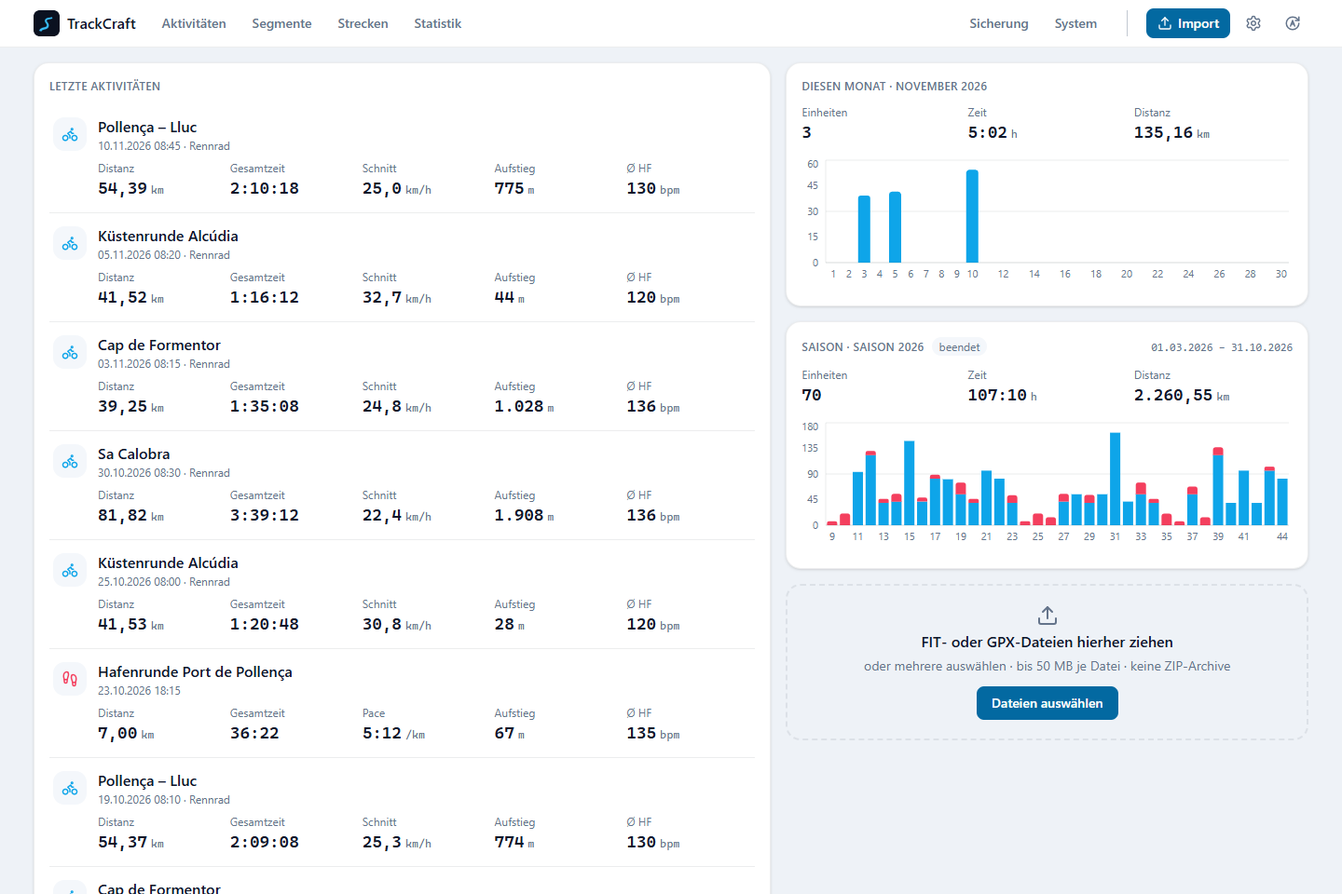
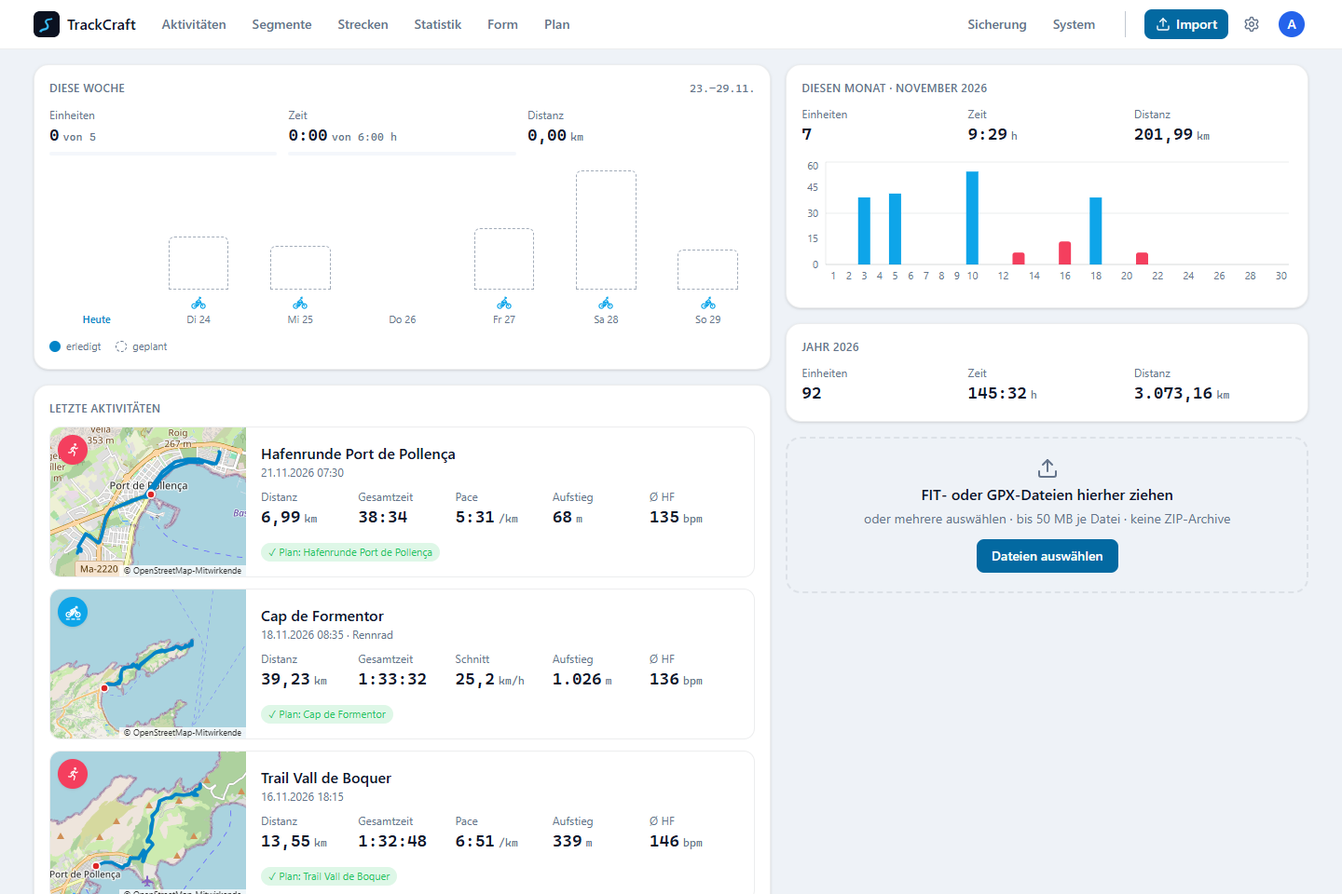
README, Anleitungen und Screenshots fürs öffentliche Repo
- README: Belastung/Form, Planung und neues Dashboard beschrieben, Version 0.8,
  Voraussetzungen je Plattform, Abschnitt Fragen/Fehler/Beiträge, offene Issues
  statt Versprechen
- CONTRIBUTING.md: Issues willkommen, Code-Beiträge nach Absprache
- Anleitungen: Hinweis, dass die tägliche Sicherung noch fehlt, mit Weg zum
  Selbstsichern; Rollback über die Migrationssicherung statt nicht vorhandener
  Seite Sicherung; Docker ohne GHCR-Anmeldung, mit Rechten für UID 10001,
  Beispiel-Reverse-Proxy, Rollback und Deinstallation; NAS-Beispielname neutral
- Demo: seed_demo.py legt Profil, HF-Zonen, Ziel und Plan an; Screenshots
  neu, dazu Form und Plan

Refs #40

diff --git a/scripts/demo/seed_demo.py b/scripts/demo/seed_demo.py
@@ -1,6 +1,7 @@
 """Eine leere TrackCraft-Instanz mit den Beispieldaten aus make_demo.py befüllen.
 
-Importiert alle GPX-Dateien, legt zwei Saisons, Segmente und Strecken an und wartet, bis die Auswertung fertig ist.
+Importiert alle GPX-Dateien, legt zwei Saisons, Segmente und Strecken, Profil mit HF-Zonen, ein Ziel und einen Plan an
+und wartet, bis die Auswertung fertig ist.
 Nur für eine Test-Instanz gedacht (selbst signiertes Zertifikat wird nicht geprüft).
 
 Aufruf:  python scripts/demo/seed_demo.py <gpx-ordner> [https://localhost:8443]
@@ -13,6 +14,7 @@ import time
 import urllib.error
 import urllib.request
 import uuid
+from datetime import date, timedelta
 from pathlib import Path
 
 BASE = sys.argv[2] if len(sys.argv) > 2 else "https://localhost:8443"
@@ -103,9 +105,11 @@ def main():
     if len(sys.argv) < 2:
         sys.exit(__doc__)
     files = sorted(Path(sys.argv[1]).glob("*.gpx"))
-    ids = {}
+    ids, days = {}, {}
     for f in files:
-        ids.setdefault(f.stem.split("-", 3)[3], []).append(upload(f))
+        aid = upload(f)
+        ids.setdefault(f.stem.split("-", 3)[3], []).append(aid)
+        days[f.stem[:10]] = aid
         print("importiert", f.name)
     wait_jobs()
 
@@ -129,7 +133,43 @@ def main():
     sec = track(first["formentor"])
     create(first["formentor"], (sec["index"][0], sec["index"][-1]), "Cap de Formentor", "cycling", kind="route", location="Port de Pollença")
     wait_jobs()
+    seed_form_and_plan(days)
+    wait_jobs()
     print("fertig:", sum(len(v) for v in ids.values()), "Aktivitäten")
+
+
+def seed_form_and_plan(days):
+    """Profil und HF-Zonen (für Belastung und Form), ein Ziel und ein Plan mit erledigten und offenen Einheiten."""
+    s, _ = call("PATCH", "/profile", {"nickname": "Alex", "birthday": "1984-06-12"})
+    print("Profil", s)
+    s, v = call("POST", "/hr-zones", {"sport_class": None, "valid_from": "2025-01-01", "max_hr": 182, "resting_hr": 52})
+    print("HF-Zonen", s, "" if s == 201 else v)
+
+    today = date.today()
+    s, v = call("POST", "/plan/goals", {
+        "date": (today + timedelta(days=48)).isoformat(), "sport_class": "cycling", "name": "Tramuntana-Runde",
+        "description": "Erfundenes Beispielziel: einmal quer durchs Gebirge.", "distance_m": 160000, "target_time_s": 6 * 3600 + 30 * 60})
+    print("Ziel", s, "" if s == 201 else v)
+    goal = v["data"]["id"]
+
+    # Erledigte Einheiten der letzten zehn Tage, je mit der Aktivität des Tages verknüpft
+    for day, aid in sorted(days.items()):
+        if (today - date.fromisoformat(day)).days > 10:
+            continue
+        a = call("GET", f"/activities/{aid}")[1]["data"]
+        minutes = max(a["total_time_ms"] // 60000, 1)
+        s, u = call("POST", "/plan/units", {"date": day, "sport_class": a["sport_class"], "title": a["title"],
+                                            "mode": "target", "duration_min": minutes, "target_load": round(minutes * 0.9),
+                                            "intensive_pct": 20})
+        if s == 201:
+            call("PUT", f"/plan/units/{u['data']['id']}/activity", {"activity_id": a["id"]})
+        print("Einheit erledigt", day, s)
+
+    # Offene Einheiten bis zum Ziel über die Planungshilfe
+    body = {"goal_id": goal, "sport_class": "cycling", "minutes": [0, 75, 60, 0, 90, 180, 60], "max_gain": 5,
+            "recovery_weeks": True, "intensity": "polarized"}
+    s, v = call("POST", "/plan/suggestion/apply", body)
+    print("Planungshilfe", s, v["data"] if s == 201 else v)
 
 
 if __name__ == "__main__":

diff --git a/scripts/demo/make_demo.py b/scripts/demo/make_demo.py
@@ -40,7 +40,7 @@ KINDS = {
 
 # Wer auf Mallorca wohnt: das ganze Jahr alle paar Tage, im Sommer weniger Radfahren (Hitze), mehr Laufen
 FIRST_DAY = date(2025, 3, 1)
-LAST_DAY = date(2026, 11, 12)
+LAST_DAY = date(2026, 11, 22)
 RIDES = ["formentor", "lluc", "alcudia", "sa_calobra", "formentor", "alcudia", "lluc"]
 RUNS = ["hafenrunde", "hafenrunde", "boquer"]
 

diff --git a/README.md b/README.md
@@ -2,9 +2,9 @@
 
 # TrackCraft
 
-**Deine Trainingsdaten auf deinem eigenen Rechner.** TrackCraft ist eine selbst gehostete Trainingsplattform für FIT- und GPX-Dateien: Aktivitäten importieren, auf der Karte ansehen, eigene Segmente und Strecken anlegen und die eigenen Bestzeiten über Jahre und Saisons verfolgen. Ohne Cloud, ohne Konto, im eigenen Heimnetz.
+**Deine Trainingsdaten auf deinem eigenen Rechner.** TrackCraft ist eine selbst gehostete Trainingsplattform für FIT- und GPX-Dateien: Aktivitäten importieren, auf der Karte ansehen, eigene Segmente und Strecken anlegen, Bestzeiten über Jahre und Saisons verfolgen, Belastung und Form beobachten und das Training bis zum nächsten Ziel planen. Ohne Cloud, ohne Konto, im eigenen Heimnetz.
 
-Stand: Version 0.6 (Vorabversion auf dem Weg zu v1.0). Oberfläche und Dokumentation sind auf Deutsch.
+Stand: Version 0.8 (Vorabversion auf dem Weg zu v1.0). Oberfläche und Dokumentation sind auf Deutsch. TrackCraft ist für **eine Person** im eigenen Heimnetz gedacht und hat **kein Login** (siehe [Sicherheit](#sicherheit-nur-fürs-heimnetz)).
 
 <picture>
   <source media="(prefers-color-scheme: dark)" srcset="docs/screenshots/aktivitaet-dunkel.png">
@@ -15,7 +15,9 @@ Stand: Version 0.6 (Vorabversion auf dem Weg zu v1.0). Oberfläche und Dokumenta
 | :---: | :---: |
 | <picture><source media="(prefers-color-scheme: dark)" srcset="docs/screenshots/segment-dunkel.png"><img src="docs/screenshots/segment-hell.png" alt="Segment Sa Calobra mit Karte, Höhenprofil und Bestzeiten"></picture> | <picture><source media="(prefers-color-scheme: dark)" srcset="docs/screenshots/statistik-dunkel.png"><img src="docs/screenshots/statistik-hell.png" alt="Statistik mit Saisons, Monatsdistanz und Verteilung je Sportklasse"></picture> |
 | **Dashboard** | **Aktivitätenliste** |
-| <picture><source media="(prefers-color-scheme: dark)" srcset="docs/screenshots/dashboard-dunkel.png"><img src="docs/screenshots/dashboard-hell.png" alt="Dashboard mit letzten Aktivitäten, Monat und Saison"></picture> | <picture><source media="(prefers-color-scheme: dark)" srcset="docs/screenshots/aktivitaeten-dunkel.png"><img src="docs/screenshots/aktivitaeten-hell.png" alt="Aktivitätenliste mit Filtern und Summen"></picture> |
+| <picture><source media="(prefers-color-scheme: dark)" srcset="docs/screenshots/dashboard-dunkel.png"><img src="docs/screenshots/dashboard-hell.png" alt="Dashboard mit letzten Aktivitäten, Woche, Monat und Jahr"></picture> | <picture><source media="(prefers-color-scheme: dark)" srcset="docs/screenshots/aktivitaeten-dunkel.png"><img src="docs/screenshots/aktivitaeten-hell.png" alt="Aktivitätenliste mit Filtern und Summen"></picture> |
+| **Form** | **Plan** |
+| <picture><source media="(prefers-color-scheme: dark)" srcset="docs/screenshots/form-dunkel.png"><img src="docs/screenshots/form-hell.png" alt="Formkurve mit Fitness, Ermüdung und Form samt Vorschau"></picture> | <picture><source media="(prefers-color-scheme: dark)" srcset="docs/screenshots/plan-dunkel.png"><img src="docs/screenshots/plan-hell.png" alt="Trainingsplan im Kalender mit erledigten und geplanten Einheiten und einem Ziel"></picture> |
 
 Alle Bilder zeigen erfundene Beispieldaten auf Mallorca ([scripts/demo](scripts/demo/README.md)); eine Tablet-Ansicht liegt unter [docs/screenshots](docs/screenshots).
 
@@ -41,9 +43,19 @@ Alle Bilder zeigen erfundene Beispieldaten auf Mallorca ([scripts/demo](scripts/
 - Erkennt Rundkurse und warnt, wenn eine neue Strecke einer vorhandenen gleicht.
 
 **Auswertung**
-- Dashboard mit den letzten Aktivitäten, Tagesbalken und laufender Saison.
+- Dashboard mit den letzten Aktivitäten samt Kartenvorschau, der laufenden Woche (erledigt gegen geplant), Monat und Jahr.
 - Statistikseite mit Summen und Verteilung je Sportklasse über frei wählbare Zeiträume.
-- **Saisons:** frei benannte Zeiträume (z. B. „Sommer 2026“), in der Oberfläche gepflegt, wirken auf Bestenlisten, Filter und Dashboard.
+- **Saisons:** frei benannte Zeiträume (z. B. „Sommer 2026“), in der Oberfläche gepflegt, wirken auf Bestenlisten, Filter und Statistik.
+
+**Belastung und Form**
+- Herzfrequenzzonen im Konto, allgemein oder je Sportklasse und mit Gültigkeitsdatum; die maximale HF wird aus dem Geburtstag vorgeschlagen.
+- Belastung je Aktivität aus der Herzfrequenz (TRIMP nach Banister) und Zeit in den Zonen; ohne Pulsdaten geschätzt und so gekennzeichnet.
+- Seite **Form** mit Fitness, Ermüdung und Form über die Zeit und einer Vorschau (Ruhe, gleichbleibend oder nach Plan); Modell wählbar, jede Einstellung mit Erklärung.
+
+**Planung**
+- Kalender mit geplanten Einheiten (Zielbelastung oder Minuten je Zone), Serien, Vorlagen und Verschieben per Drag-and-drop.
+- Ziele wie Wettkämpfe oder Touren im Kalender; die **Planungshilfe** schlägt die Einheiten bis zum Ziel vor (Minuten je Wochentag, Steigerung, Entlastungswochen).
+- Eine Aktivität lässt sich der geplanten Einheit des Tages zuordnen (TrackCraft schlägt sie vor); die Formvorschau rechnet den offenen Plan mit ein.
 
 **Betrieb**
 - Läuft als Windows-Dienst, als Linux-systemd-Dienst (z. B. in einem Proxmox-Container) oder mit Docker.
@@ -51,7 +63,7 @@ Alle Bilder zeigen erfundene Beispieldaten auf Mallorca ([scripts/demo](scripts/
 - Bedienbar am PC, Tablet und Handy, helles und dunkles Design.
 - Eine Datenbank (SQLite) und die unveränderten Originaldateien; jede Kennzahl lässt sich aus den Originalen neu berechnen.
 
-**Noch nicht enthalten** (geplant bis v1.0): Sicherung und Wiederherstellung aus der Oberfläche, Export, Ausrüstung und Wartung. Später denkbar: Gesundheitsdaten, Raspberry Pi, MCP-Server.
+**Noch nicht enthalten** (geplant bis v1.0): tägliche Sicherung und Wiederherstellung aus der Oberfläche, Export. Später denkbar und als [Issues](../../issues) beschrieben: Ausrüstung und Wartung, Leistungsdaten (Watt), Laufprognosen, Gesundheitsdaten, mehrere Benutzer mit Anmeldung, weitere Sprachen, Raspberry Pi, MCP-Server.
 
 ## Sicherheit: nur fürs Heimnetz
 
@@ -61,13 +73,13 @@ TrackCraft hat in V1 **kein Login**. Wer die Oberfläche erreicht, darf alles le
 
 Fertige Pakete gibt es unter [Releases](../../releases), jeweils mit `SHA256SUMS.txt`.
 
-| Plattform | Paket | Anleitung |
-| :--- | :--- | :--- |
-| Windows 11 (x86-64) | `trackcraft-<version>-windows-x86_64.zip`, Start über `setup.cmd` | [infrastructure/windows/BETRIEB.md](infrastructure/windows/BETRIEB.md) |
-| Linux mit systemd (x86-64, glibc ≥ 2.35) | `trackcraft-<version>-linux-x86_64.tar.gz`, Start über `setup.sh` | [infrastructure/linux/BETRIEB.md](infrastructure/linux/BETRIEB.md) |
-| Docker | Images `trackcraft-backend` und `trackcraft-frontend` (GHCR), `compose.yaml` | [infrastructure/docker/BETRIEB.md](infrastructure/docker/BETRIEB.md) |
+| Plattform | Voraussetzungen | Paket | Anleitung |
+| :--- | :--- | :--- | :--- |
+| Windows | Windows 11, x86-64, 2 GB freier Arbeitsspeicher | `trackcraft-<version>-windows-x86_64.zip`, Start über `setup.cmd` | [infrastructure/windows/BETRIEB.md](infrastructure/windows/BETRIEB.md) |
+| Linux | x86-64 mit systemd und glibc ≥ 2.35 (z. B. Debian 12/13, Ubuntu 22.04 und neuer), 1 GB freier Arbeitsspeicher | `trackcraft-<version>-linux-x86_64.tar.gz`, Start über `setup.sh` | [infrastructure/linux/BETRIEB.md](infrastructure/linux/BETRIEB.md) |
+| Docker | x86-64-Host mit Docker Engine und Compose v2, davor ein Reverse Proxy für HTTPS | `trackcraft-<version>-docker.zip` mit `compose.yaml`; Images `ghcr.io/ulilaun/trackcraft-backend` und `-frontend`, ohne Anmeldung ladbar | [infrastructure/docker/BETRIEB.md](infrastructure/docker/BETRIEB.md) |
 
-Das Setup fragt nach dem Namen des Rechners im Heimnetz (z. B. `trackcraft.home.arpa`), legt Zertifikate und Konfiguration an und startet den Dienst. Ein Update ist dasselbe Setup aus dem neueren Paket; die Datenbank wird dabei automatisch migriert.
+Unter Windows und Linux fragt das Setup nach dem Namen des Rechners im Heimnetz (z. B. `trackcraft.home.arpa`), legt Zertifikate und Konfiguration an und startet den Dienst. Ein Update ist dasselbe Setup aus dem neueren Paket; die Datenbank wird dabei automatisch migriert. Im Browser genügt eine aktuelle Version von Firefox, Chrome, Edge oder Safari.
 
 **Kartenkacheln:** Ohne eigene Einstellung lädt der Browser die Karten direkt von den Servern der OpenStreetMap Foundation (`tile.openstreetmap.org`). Das ist für gelegentliche private Nutzung gedacht und unterliegt deren [Nutzungsrichtlinie](https://operations.osmfoundation.org/policies/tiles/), die Namensnennung blendet TrackCraft ein. Wer viel lädt oder TrackCraft für mehrere Personen betreibt, trägt in der Konfiguration einen eigenen Kachelanbieter ein:
 
@@ -78,6 +90,10 @@ attribution = "© OpenStreetMap-Mitwirkende, Kacheln: Beispielanbieter"
 ```
 
 **Ortsvorschlag:** Findet TrackCraft keinen bekannten Ort in der Nähe des Starts, fragt der Server den Dienst Nominatim von OpenStreetMap (`nominatim.openstreetmap.org`) mit der auf gut 10 m gerundeten Startkoordinate. Das lässt sich unter Einstellungen → Orte abschalten; mit `[places] nominatim_url` geht auch eine eigene Nominatim-Instanz.
+
+## Fragen, Fehler und Beiträge
+
+TrackCraft ist ein Freizeitprojekt mit einem Betreuer. Fragen, Fehler und Ideen bitte als [Issue](../../issues) melden, gern mit Version (Seite System) und Plattform; Sicherheitslücken vertraulich wie in [SECURITY.md](SECURITY.md). Code-Beiträge bitte erst im Issue absprechen, Einzelheiten in [CONTRIBUTING.md](CONTRIBUTING.md).
 
 ## Entwicklung
 

diff --git a/infrastructure/docker/BETRIEB.md b/infrastructure/docker/BETRIEB.md
@@ -1,35 +1,91 @@
 # TrackCraft mit Docker betreiben
 
-Zweite Plattform nach RFC-0005: x86-64-Host mit Docker und Docker Compose v2, z. B. Synology mit Container Manager oder Mini-PC mit Linux. In CI gebaut und getestet, nicht auf eigener Hardware abgenommen.
+Zweite Plattform nach RFC-0005: x86-64-Host mit Docker Engine und Docker Compose v2, z. B. ein Mini-PC mit Linux oder eine Synology mit Container Manager. Anders als unter Windows und Linux macht TrackCraft im Container **kein eigenes HTTPS**: Davor gehört ein Reverse Proxy, der HTTPS für den Namen im Heimnetz anbietet (Abschnitt „Reverse Proxy“).
+
+Zwei Container: `trackcraft-backend` (Programm, Daten) und `trackcraft-frontend` (Nginx mit der Oberfläche, leitet `/api` ans Backend). Die Images liegen öffentlich unter `ghcr.io/ulilaun/trackcraft-backend` und `ghcr.io/ulilaun/trackcraft-frontend`; eine Anmeldung bei GitHub ist nicht nötig.
 
 ## Einrichten
 
-1. `trackcraft-<version>-docker.zip` aus dem GitHub Release laden, Prüfsumme mit `SHA256SUMS.txt` vergleichen, in einen Ordner auf dem Host entpacken.
-2. Einmal an der privaten Registry anmelden, mit einem Token, das nur `read:packages` darf:
+1. `trackcraft-<version>-docker.zip` und `SHA256SUMS.txt` aus dem GitHub Release laden, Prüfsumme vergleichen und auf dem Host entpacken:
 
    ```bash
-   docker login ghcr.io -u <github-name>
+   sha256sum -c --ignore-missing SHA256SUMS.txt
+   unzip trackcraft-<version>-docker.zip
+   cd trackcraft-<version>-docker
    ```
 
-3. `config/trackcraft.toml` aus `trackcraft.container.example.toml` anlegen und anpassen (Anzeigename, `allowed_origins`).
-4. In `compose.yaml` den Pfad des Sicherungsziels eintragen.
-5. Starten:
+2. Konfiguration aus der Vorlage anlegen und anpassen, mindestens `display_name` und `allowed_origins` (die Adresse, unter der der Reverse Proxy TrackCraft anbietet, z. B. `https://trackcraft.home.arpa`):
+
+   ```bash
+   cp config/trackcraft.container.example.toml config/trackcraft.toml
+   nano config/trackcraft.toml
+   ```
+
+3. In `compose.yaml` den Pfad des Sicherungsziels eintragen (Zeile `/pfad/zum/sicherungsziel`), z. B. eine eingehängte NAS-Freigabe.
+4. Datenordner anlegen und dem Benutzer im Container (UID 10001) geben; der Backend-Container läuft nicht als root und darf sonst nicht schreiben:
+
+   ```bash
+   mkdir -p data
+   sudo chown -R 10001:10001 data /pfad/zum/sicherungsziel
+   ```
+
+5. Starten und prüfen:
 
    ```bash
    docker compose up -d
+   docker compose ps
+   curl -s http://127.0.0.1:8081/api/v1/health
    ```
+
+   `health` antwortet mit `"status":"ok"`, sobald das Backend läuft.
 
 ## Reverse Proxy
 
-Der Frontend-Container ist nur auf `127.0.0.1:8081` des Hosts erreichbar. Der Reverse Proxy (auf der Synology der von DSM) terminiert HTTPS für den Namen aus `allowed_origins` und leitet an `http://127.0.0.1:8081` weiter. Er reicht `Host`, `Origin` und `Sec-Fetch-*` unverändert weiter und fügt keine CORS-Header hinzu (RFC-0005). Uploads bis 50 MB und eine Stunde Laufzeit müssen durchgehen.
+Der Frontend-Container ist nur auf `127.0.0.1:8081` des Hosts erreichbar (HTTP). Der Reverse Proxy terminiert HTTPS für den Namen aus `allowed_origins` und leitet an `http://127.0.0.1:8081` weiter. Er reicht `Host`, `Origin` und `Sec-Fetch-*` unverändert weiter und fügt keine CORS-Header hinzu (RFC-0005). Uploads bis 50 MB und eine Stunde Laufzeit müssen durchgehen.
+
+Beispiel mit Caddy auf demselben Host, Zertifikat aus Caddys eigener lokaler CA (`tls internal`; deren Stammzertifikat dann auf den Geräten installieren):
+
+```
+trackcraft.home.arpa {
+    tls internal
+    request_body {
+        max_size 50MB
+    }
+    reverse_proxy 127.0.0.1:8081
+}
+```
+
+Auf einer Synology übernimmt das der Reverse Proxy von DSM (Systemsteuerung → Anmeldeportal → Erweitert → Reverse Proxy), mit einem Zertifikat für den Namen.
+
+## Sicherung
+
+> **Noch keine tägliche Sicherung:** TrackCraft legt bisher nur vor einer Schemamigration selbst eine Sicherung der Datenbank an (`data/backups`). Die tägliche Sicherung ins Sicherungsziel und die Wiederherstellung aus der Oberfläche kommen mit einer späteren Version. Bis dahin selbst sichern: `docker compose stop`, die Ordner `data/database` und `data/activities` kopieren, `docker compose start`.
 
 ## Update
 
-1. Version in `compose.yaml` auf die neue genaue Version ändern.
+1. In `compose.yaml` bei beiden Images die neue genaue Version eintragen (nie `latest`).
 2. `docker compose pull` und `docker compose up -d`.
 
-Vor einer Schemamigration legt TrackCraft eine Sicherung in `data/backups` an. Rollback: alte Version eintragen und nach RFC-0015 verfahren; ein älteres Image startet nicht gegen ein neueres Schema.
+Konfiguration und Daten bleiben; vor einer Schemamigration legt TrackCraft eine Sicherung in `data/backups` an. Neue Pflichtschlüssel nennen die Release Notes.
+
+## Rollback
+
+Ein älteres Image startet nicht gegen ein neueres Schema und ändert dann nichts. Alte Version in `compose.yaml` eintragen und `docker compose up -d`. Startet sie nicht, weil schon migriert wurde:
+
+```bash
+docker compose down
+mkdir -p nach-update && mv data/database/trackcraft.db* nach-update/
+cp data/backups/trackcraft-vor-migration-v<alt>-v<neu>.db data/database/trackcraft.db
+sudo chown 10001:10001 data/database/trackcraft.db
+docker compose up -d
+```
+
+Änderungen seit dem Update fehlen danach; die Originaldateien in `data/activities` bleiben, wie sie sind.
 
 ## Logs
 
 `docker compose logs trackcraft-backend` sowie `data/logs/app.<datum>.log`.
+
+## Deinstallieren
+
+`docker compose down` entfernt die Container und das Netz. Der Ordner mit `config` und `data` (Trainings- und Positionsdaten) bleibt stehen und wird nur von Hand gelöscht; die Images entfernt `docker image rm`.

diff --git a/infrastructure/windows/BETRIEB.md b/infrastructure/windows/BETRIEB.md
@@ -21,9 +21,9 @@ Gilt für das Windows-ZIP `trackcraft-<version>-windows-x86_64.zip` (RFC-0005, R
 3. Rechtsklick auf das ZIP → Eigenschaften → „Zulassen“ ankreuzen. Sonst warnt SmartScreen beim Start, weil TrackCraft nicht signiert ist.
 4. Das ZIP entpacken, wo es liegt, z. B. im Download-Ordner.
 
-### Ohne Release: lokal gebautes Paket
+### Für Entwickler: lokal gebautes Paket
 
-Zum Ausprobieren vor dem ersten Release baut das Skript ein gleich aufgebautes Paket aus dem Repository (Rust und Node nötig):
+Zum Ausprobieren eines eigenen Stands baut das Skript ein gleich aufgebautes Paket aus dem Repository (Rust und Node nötig):
 
 ```powershell
 .\scripts\package-windows.ps1 -Version 0.1.0-dev -Local
@@ -84,8 +84,12 @@ Wer ein eigenes Zertifikat nutzen will, trägt dessen Pfade in `[tls]` ein; Trac
 
 ## Sicherungsziel
 
+> **Noch keine tägliche Sicherung:** TrackCraft legt bisher nur vor einer Schemamigration selbst eine Sicherung der Datenbank an (`data\backups`). Die tägliche Sicherung ins Sicherungsziel und die Wiederherstellung aus der Oberfläche kommen mit einer späteren Version. Bis dahin selbst sichern: Dienst stoppen, `C:\ProgramData\TrackCraft\data\database` und `data\activities` als Administrator kopieren (z. B. mit `robocopy … /E`), Dienst starten.
+
+Das Ziel lässt sich trotzdem schon eintragen; `trackcraft.exe check-config` meldet, ob es erreichbar ist.
+
 - USB-Laufwerk oder zweite Platte: Pfad in `[backup] target_dir`, z. B. `'E:\TrackCraft-Sicherung'`. Ist der Ordner beim `setup` vorhanden, erhält der Dienst Schreibrecht.
-- Netzwerkfreigabe (z. B. auf der DS214): als UNC-Pfad `'\\ds214\backup\trackcraft'`, nie als Laufwerksbuchstabe. Der Dienst greift als Computerkonto zu; ein NAS ohne Domäne kennt dieses Konto nicht. Dann den Dienst unter einem lokalen Konto laufen lassen, das auf dem NAS mit gleichem Namen und Passwort Schreibrecht auf die Freigabe hat (Dienste → TrackCraft → Anmelden), und diesem Konto dieselben Rechte auf `C:\ProgramData\TrackCraft\data` und Lesen auf `config` geben.
+- Netzwerkfreigabe (z. B. auf einem NAS): als UNC-Pfad `'\\nas\backup\trackcraft'`, nie als Laufwerksbuchstabe. Der Dienst greift als Computerkonto zu; ein NAS ohne Domäne kennt dieses Konto nicht. Dann den Dienst unter einem lokalen Konto laufen lassen, das auf dem NAS mit gleichem Namen und Passwort Schreibrecht auf die Freigabe hat (Dienste → TrackCraft → Anmelden), und diesem Konto dieselben Rechte auf `C:\ProgramData\TrackCraft\data` und Lesen auf `config` geben.
 
 ## Betrieb
 
@@ -98,7 +102,7 @@ Wer ein eigenes Zertifikat nutzen will, trägt dessen Pfade in `[tls]` ein; Trac
 | `trackcraft.exe` | Start im Vordergrund zur Diagnose (vorher Dienst stoppen), Ende mit Strg+C |
 
 - Logs: `C:\ProgramData\TrackCraft\data\logs\app.<datum>.log`. Startfehler vor dem Log: Ereignisanzeige → Windows-Protokolle → Anwendung, Quelle `TrackCraft`.
-- TrackCraft ist nur erreichbar, wenn der PC läuft. Die Sicherung um 03:00 läuft nur bei eingeschaltetem PC, sonst einmal nach dem Start.
+- TrackCraft ist nur erreichbar, wenn der PC läuft.
 - Bei einem Absturz startet Windows den Dienst nach einer Minute neu, höchstens zweimal am Tag. Bei einem Konfigurationsfehler bleibt er gestoppt.
 
 ## Update
@@ -113,7 +117,13 @@ Wer ein eigenes Zertifikat nutzen will, trägt dessen Pfade in `[tls]` ein; Trac
 Ein älteres Programm startet nicht gegen ein neueres Schema und ändert dann nichts. Zurück geht es so:
 
 1. `setup.cmd` aus dem aufbewahrten alten ZIP ausführen; es ersetzt das Programm durch die alte Version.
-2. Startet sie nicht, weil schon migriert wurde: Dienst stoppen, `data\database` und `data\activities` beiseitelegen, Dienst starten und die Sicherung vor der Migration über die Seite Sicherung wiederherstellen (RFC-0012).
+2. Startet sie nicht, weil schon migriert wurde, die Datenbank von vor der Migration zurückholen (als Administrator):
+   1. `trackcraft.exe service stop`
+   2. In `C:\ProgramData\TrackCraft\data\database` die Dateien `trackcraft.db`, `trackcraft.db-wal` und `trackcraft.db-shm` in einen anderen Ordner verschieben.
+   3. `C:\ProgramData\TrackCraft\data\backups\trackcraft-vor-migration-v<alt>-v<neu>.db` als `trackcraft.db` nach `data\database` kopieren.
+   4. `trackcraft.exe service start`
+
+   Änderungen seit dem Update fehlen danach; die Originaldateien in `data\activities` bleiben, wie sie sind.
 
 ## Deinstallieren
 

diff --git a/infrastructure/linux/BETRIEB.md b/infrastructure/linux/BETRIEB.md
@@ -78,6 +78,16 @@ Liegen neue Namen außerhalb der bisherigen CA, legt der Befehl eine neue CA an;
 
 ## Sicherungsziel
 
+> **Noch keine tägliche Sicherung:** TrackCraft legt bisher nur vor einer Schemamigration selbst eine Sicherung der Datenbank an (`/var/lib/trackcraft/backups`). Die tägliche Sicherung ins Sicherungsziel und die Wiederherstellung aus der Oberfläche kommen mit einer späteren Version. Bis dahin selbst sichern, z. B.:
+>
+> ```bash
+> sudo systemctl stop trackcraft
+> sudo tar -czf /mnt/trackcraft-sicherung/trackcraft-$(date +%F).tgz -C /var/lib/trackcraft database activities
+> sudo systemctl start trackcraft
+> ```
+>
+> Proxmox-Nutzer können stattdessen den ganzen Container sichern (vzdump, Modus „Stopp“ oder „Snapshot“).
+
 Eine NAS-Freigabe auf dem Proxmox-Host einhängen und per Bind-Mount in den Container geben, oder im Container direkt einhängen (z. B. CIFS in `/etc/fstab`). Den Pfad in `[backup] target_dir` eintragen und `setup.sh` erneut ausführen: Es macht den Ordner für den Dienst beschreibbar und trägt ihn in die systemd-Unit ein.
 
 ## Betrieb
@@ -112,7 +122,18 @@ Daten und Originaldateien sind plattformunabhängig, die Datenbank speichert nur
 
 ## Rollback
 
-Ein älteres Programm startet nicht gegen ein neueres Schema und ändert dann nichts. `setup.sh` aus dem aufbewahrten alten Paket ausführen; startet es wegen einer Migration nicht, wie unter Windows nach RFC-0015 vorgehen.
+Ein älteres Programm startet nicht gegen ein neueres Schema und ändert dann nichts. `sudo ./setup.sh` aus dem aufbewahrten alten Paket ausführen. Startet es nicht, weil schon migriert wurde, die Datenbank von vor der Migration zurückholen:
+
+```bash
+sudo systemctl stop trackcraft
+cd /var/lib/trackcraft
+sudo mkdir -p /root/nach-update && sudo mv database/trackcraft.db* /root/nach-update/
+sudo cp backups/trackcraft-vor-migration-v<alt>-v<neu>.db database/trackcraft.db
+sudo chown trackcraft:trackcraft database/trackcraft.db
+sudo systemctl start trackcraft
+```
+
+Änderungen seit dem Update fehlen danach; die Originaldateien in `activities` bleiben, wie sie sind.
 
 ## Deinstallieren
 

diff --git a/CONTRIBUTING.md b/CONTRIBUTING.md
@@ -1,0 +1,36 @@
+# Mitmachen
+
+Danke für das Interesse an TrackCraft. Es ist ein Freizeitprojekt mit einem Betreuer; Antworten können ein paar Tage dauern.
+
+## Fragen, Fehler, Ideen
+
+Als [Issue](../../issues) melden. Bei Fehlern hilft:
+
+- Version und Plattform (Seite **System** zeigt die Version; Windows, Linux oder Docker),
+- was du getan hast, was du erwartet hast und was passiert ist,
+- die passende Stelle aus dem Log (`app.<datum>.log`, siehe Betriebsanleitung), ohne Schlüssel oder Positionsdaten.
+
+Sicherheitslücken bitte **nicht** als Issue, sondern wie in [SECURITY.md](SECURITY.md) beschrieben.
+
+**Trainingsdateien nie öffentlich anhängen**: FIT- und GPX-Dateien enthalten Positionen, oft auch rund um die eigene Wohnung. Wenn eine Datei zum Nachstellen nötig ist, im Issue nachfragen.
+
+## Code-Beiträge
+
+Pull Requests bitte **erst nach Absprache im Issue**: kurz beschreiben, was du ändern willst, und auf ein Okay warten. So geht keine Arbeit verloren, weil etwas anders geplant ist.
+
+Dann gilt:
+
+- **Spec first:** Verhalten steht zuerst im passenden RFC bzw. in [docs/api/openapi.yaml](docs/api/openapi.yaml) ([Spezifikation](docs/README.md)), Code und Doku ändern sich im selben Pull Request.
+- **Deutsch** für Oberfläche, Doku, Commit-Nachrichten und Kommentare; Bezeichner im Code englisch.
+- Ein Thema je Pull Request, mit Tests für neues Verhalten.
+- Vor dem Pull Request lokal prüfen (wie in der CI):
+
+  ```powershell
+  cd backend; cargo fmt --check; cargo clippy --all-targets -- -D warnings; cargo test
+  cd frontend; npm ci; npm run lint; npm test; npm run build
+  ```
+
+- Keine echten Trainingsdaten, Hostnamen, Pfade oder Namen ins Repository; Beispiele mit `*.home.arpa`, `localhost` und den erfundenen Mallorca-Daten aus [scripts/demo](scripts/demo/README.md).
+- Mit dem Pull Request stimmst du zu, dass dein Beitrag unter der [AGPL-3.0-or-later](LICENSE) steht.
+
+Wie die Entwicklungsumgebung aufgebaut ist, steht im [README](README.md#entwicklung).
